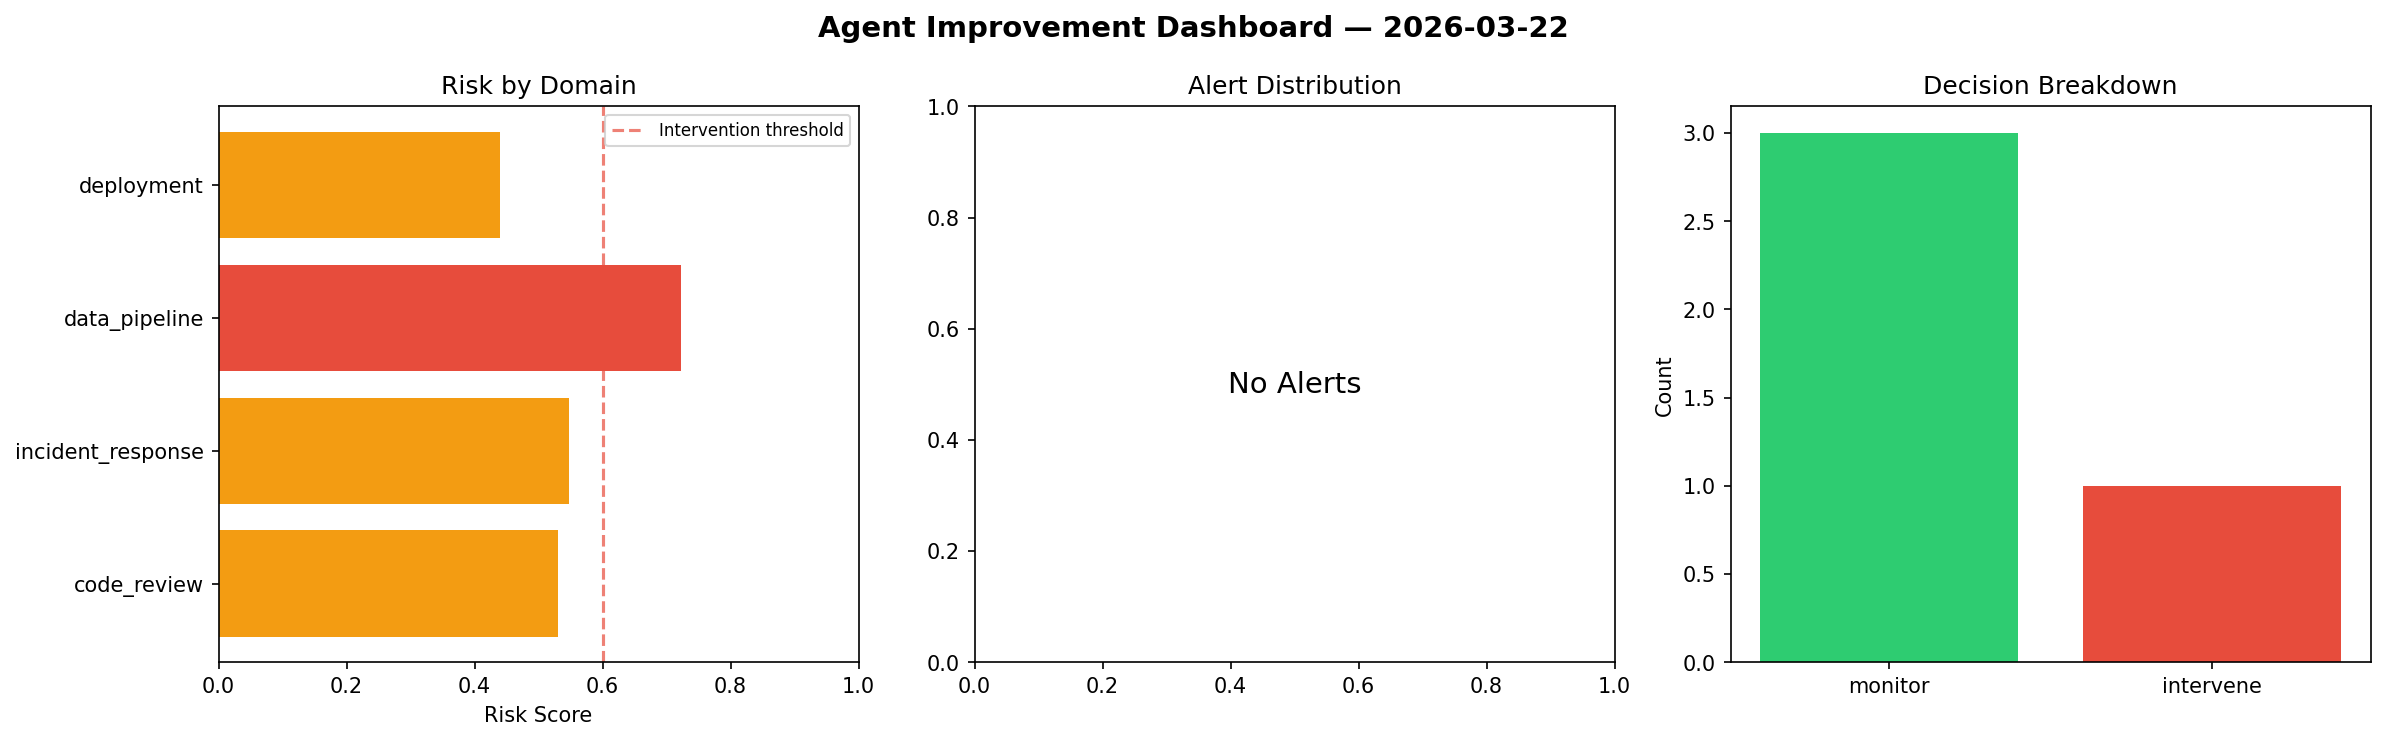
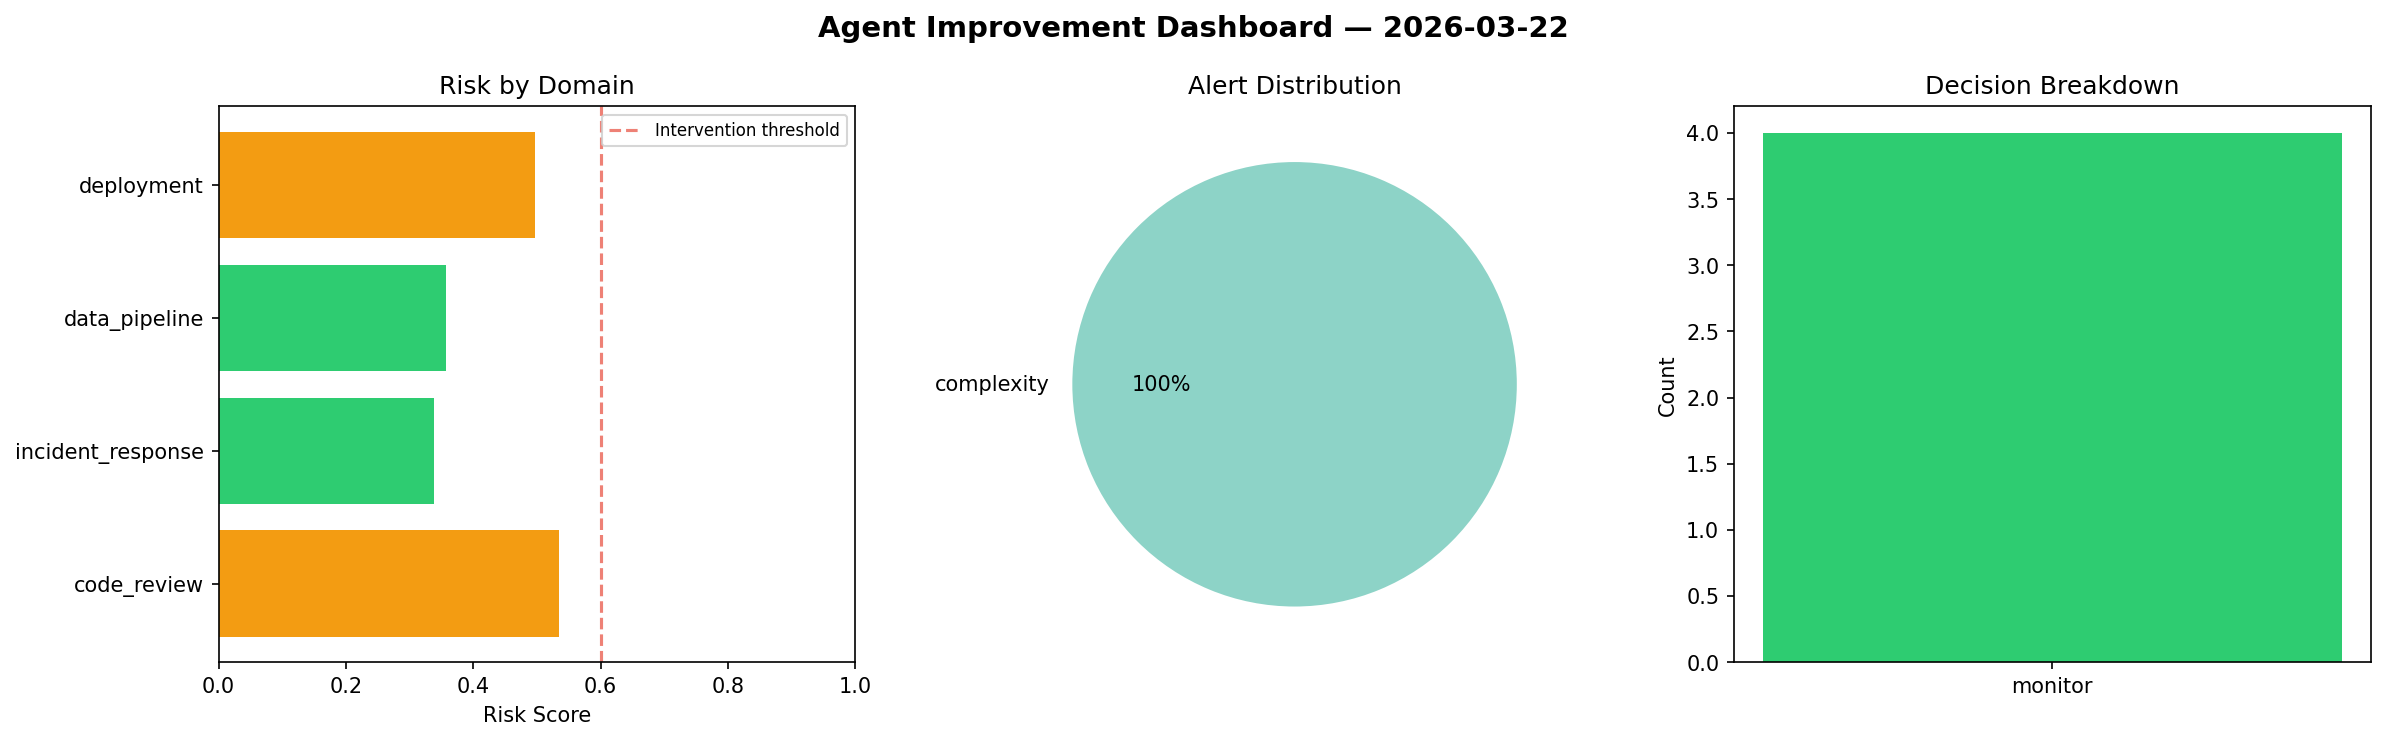
agent-improvement: daily cycle 2026-03-22T20:44

diff --git a/logs/2026-03-22.md b/logs/2026-03-22.md
@@ -1,6 +1,6 @@
 # Agent Improvement Report — 2026-03-22
 
-**Cycle ID:** `8b9d583f` | **Avg Risk:** 0.5602 | **Interventions:** 1/4
+**Cycle ID:** `dcbf011e` | **Avg Risk:** 0.4316 | **Interventions:** 0/4
 
 ![Dashboard](2026-03-22_dashboard.png)
 
@@ -10,18 +10,18 @@
 
 | Domain | Risk Score | Decision | Alerts |
 |--------|-----------|----------|--------|
-| code_review | 0.5304 | monitor | none |
-| incident_response | 0.5473 | monitor | none |
-| data_pipeline | 0.7231 | intervene | none |
-| deployment | 0.44 | monitor | none |
+| code_review | 0.5345 | monitor | complexity |
+| incident_response | 0.3376 | monitor | none |
+| data_pipeline | 0.3568 | monitor | none |
+| deployment | 0.4977 | monitor | none |
 
 ## Delta vs Yesterday
 
 | Domain | Today | Yesterday | Change |
 |--------|-------|-----------|--------|
-| code_review | 0.5304 | 0.453 | 📈 17.1% |
-| incident_response | 0.5473 | 0.4707 | 📈 16.3% |
-| data_pipeline | 0.7231 | 0.2494 | 📈 189.9% |
-| deployment | 0.44 | 0.5378 | 📉 -18.2% |
+| code_review | 0.5345 | 0.453 | 📈 18.0% |
+| incident_response | 0.3376 | 0.4707 | 📉 -28.3% |
+| data_pipeline | 0.3568 | 0.2494 | 📈 43.1% |
+| deployment | 0.4977 | 0.5378 | 📉 -7.5% |
 
 **Refinement:** `{'adjustment': 'maintain', 'trend': 'improving', 'window': 4}`
